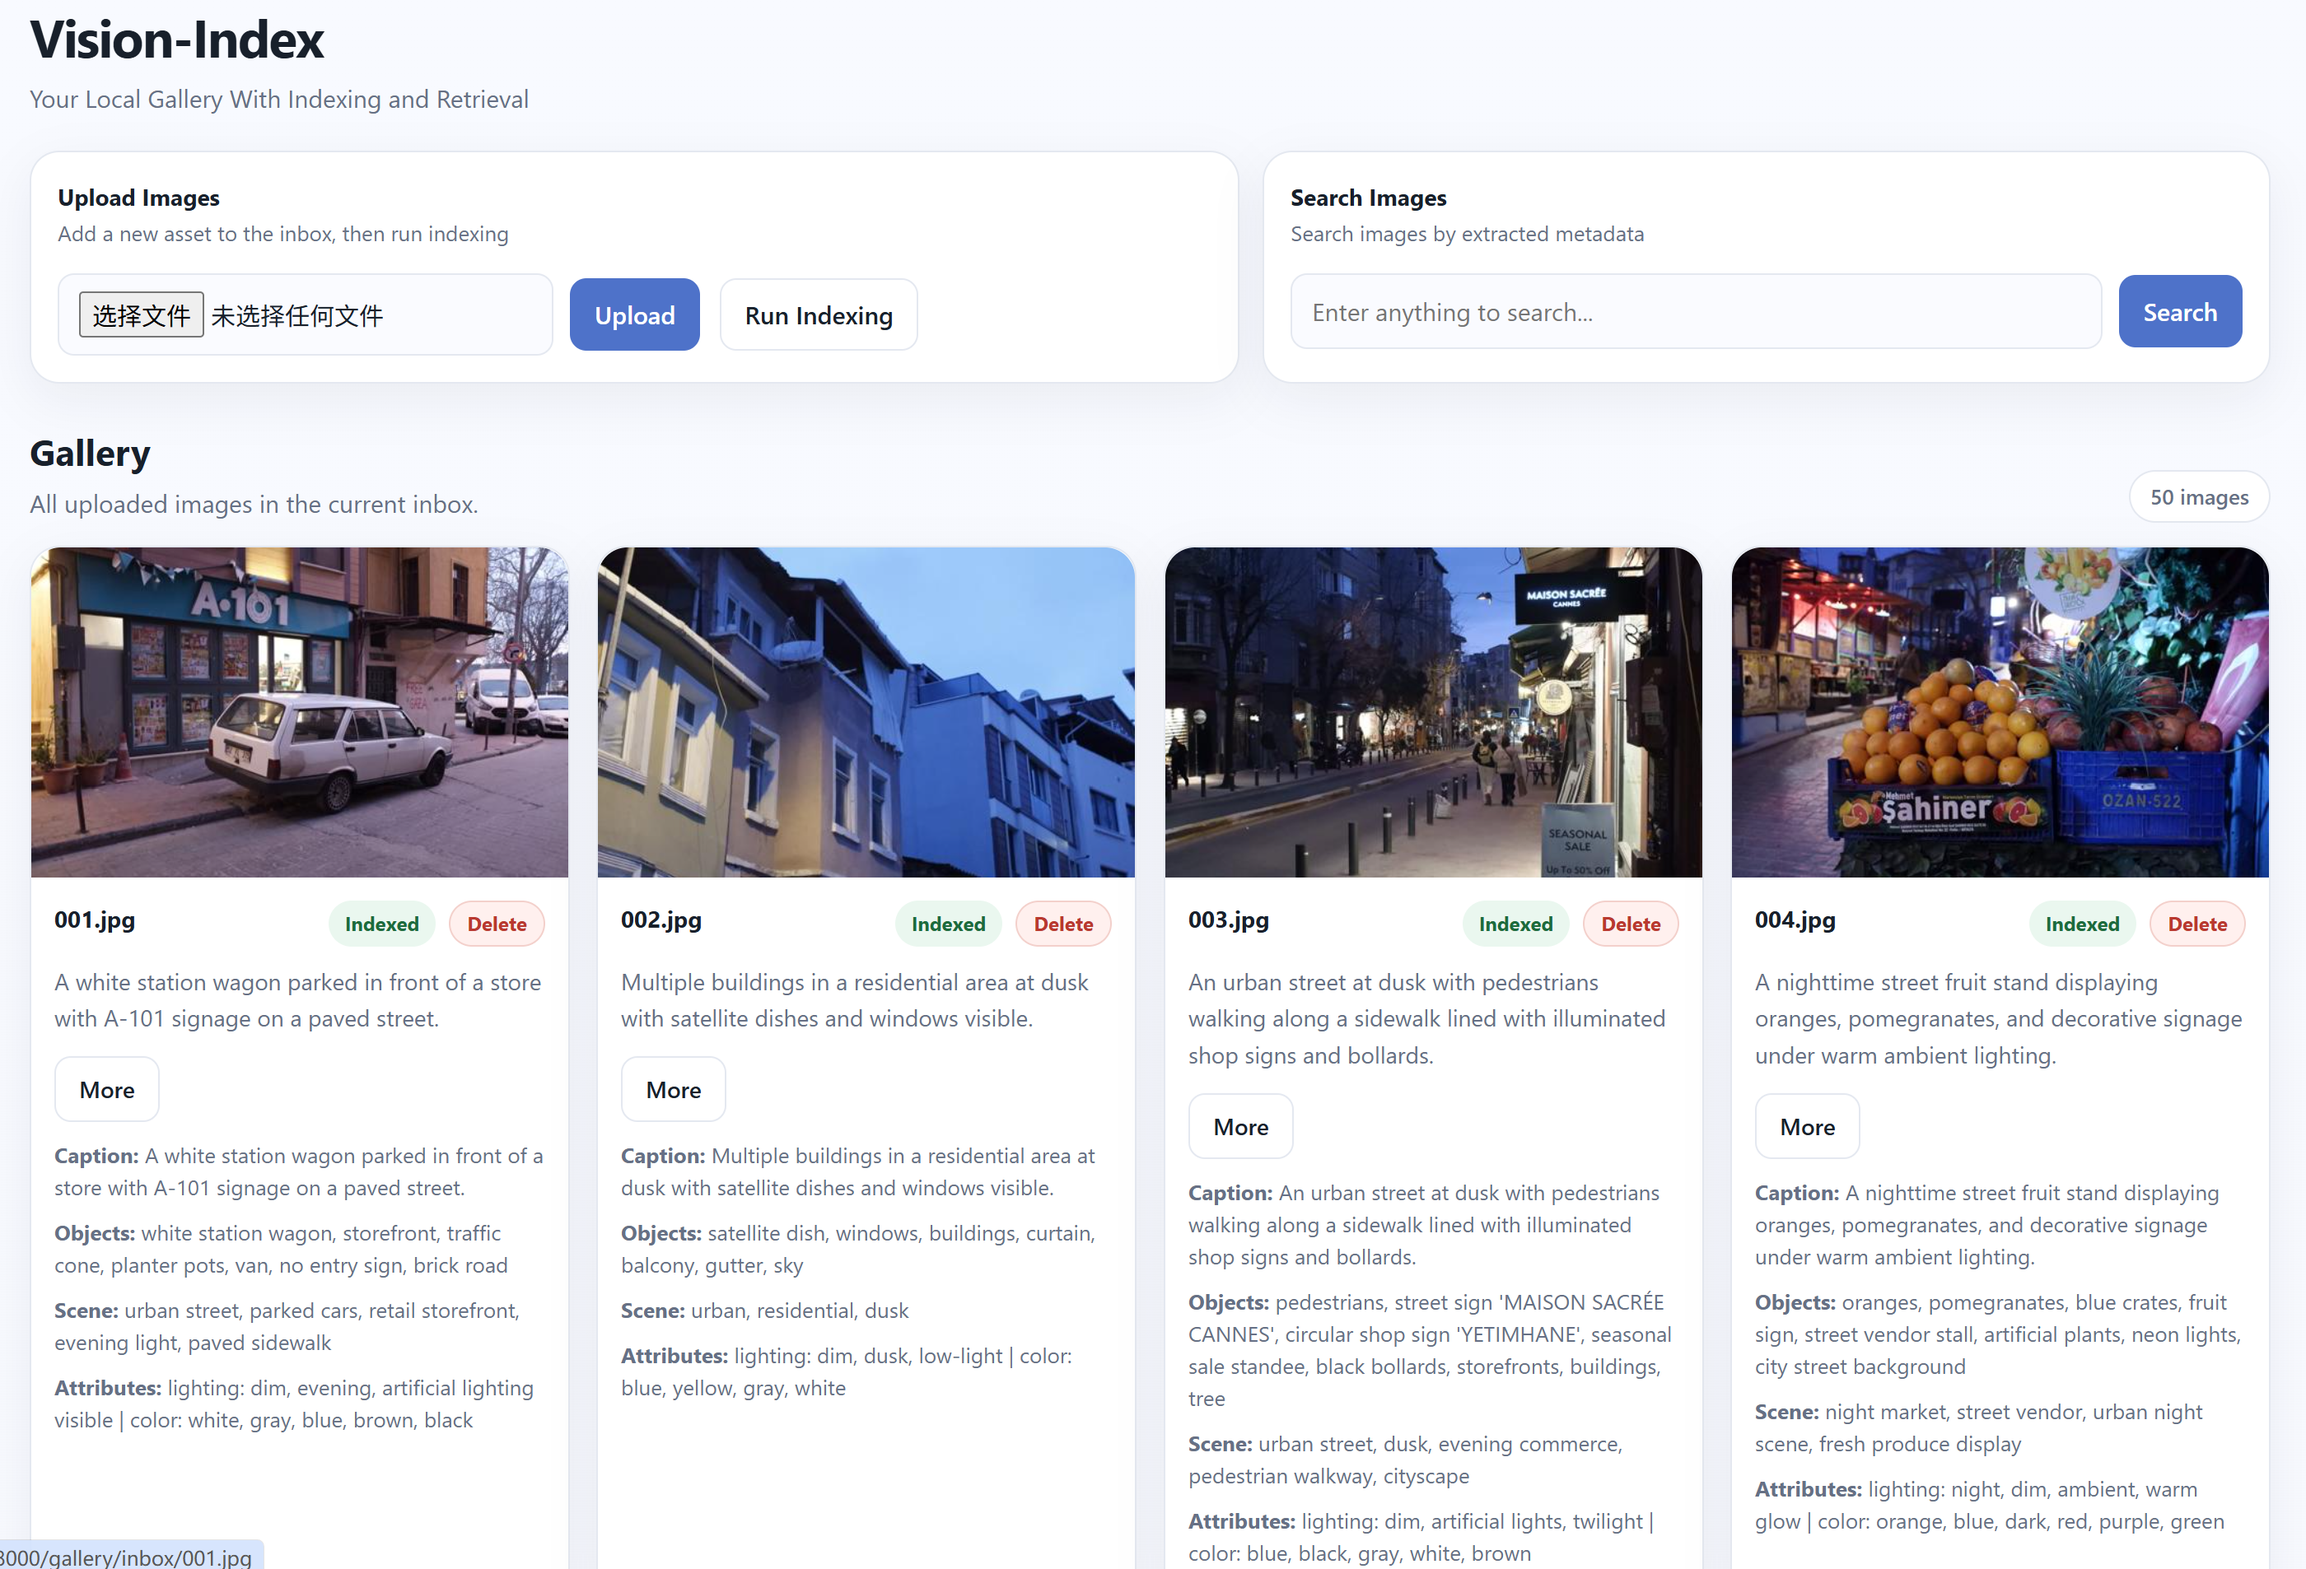
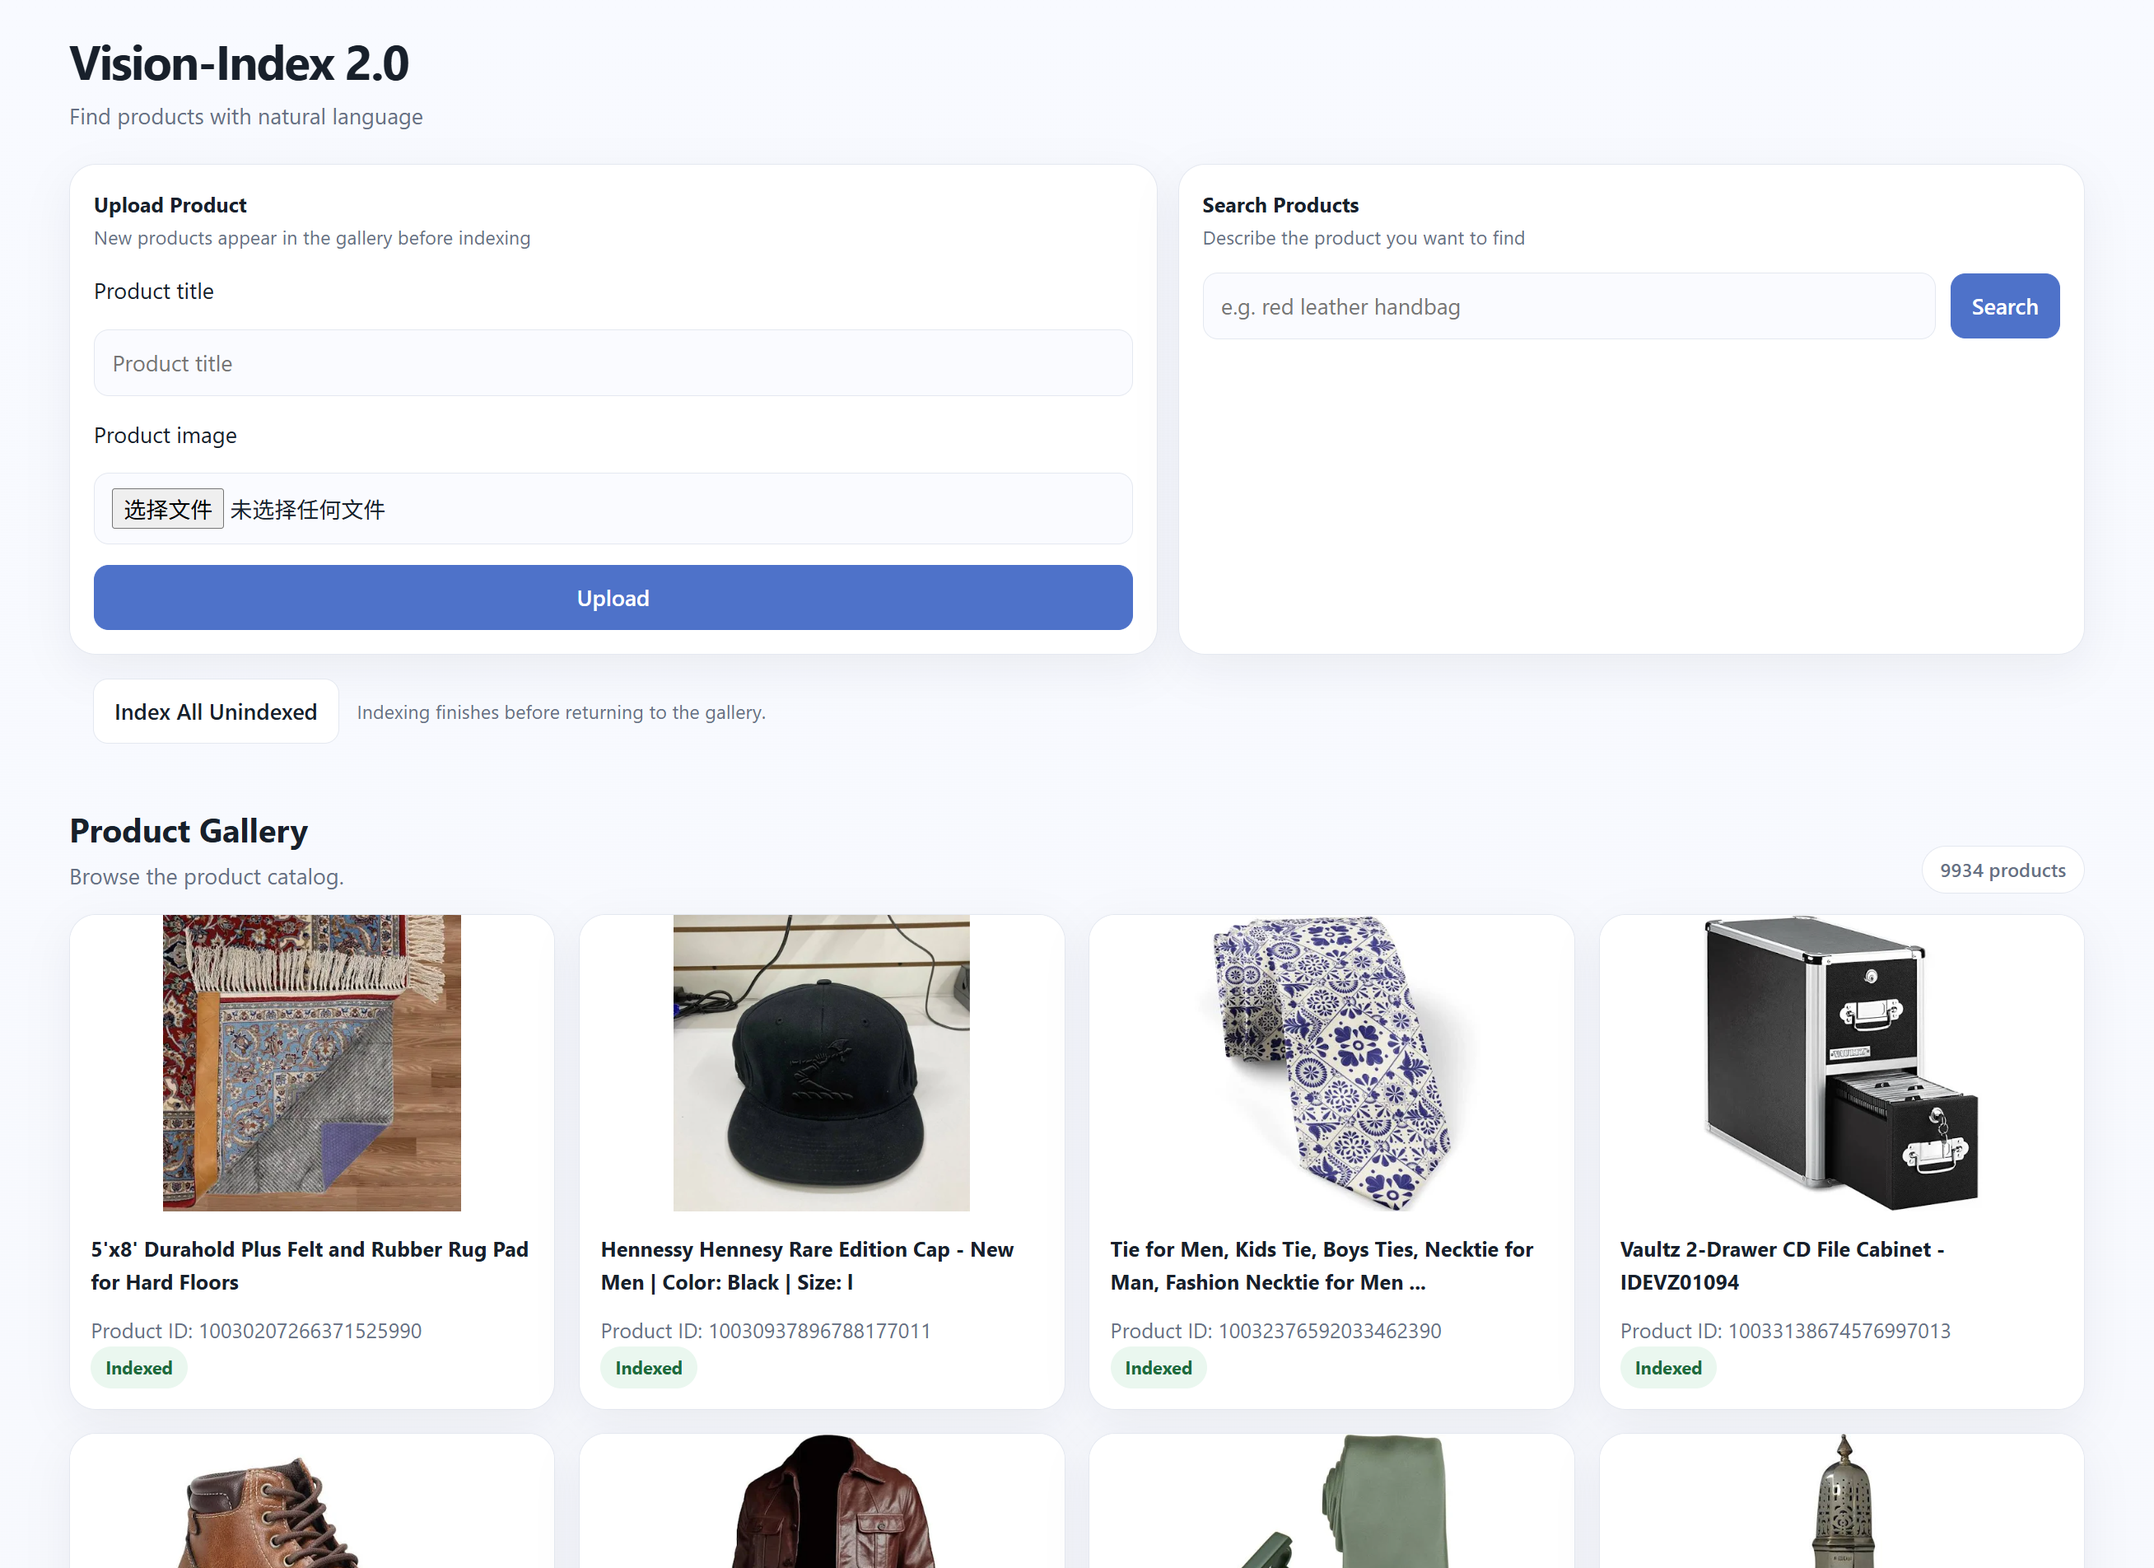
change readme

diff --git a/app_legacy/README.md b/app_legacy/README.md
@@ -20,11 +20,11 @@ It combines local VLM-based image understanding, text embeddings, vector retriev
 
 ### Upload Images, Run Indexing, and Inspect Metadata
 
-![Homepage showing the indexed image gallery](../doc/homepage.png)
+![Homepage showing the indexed image gallery](../doc/legacy_homepage.png)
 
 ### Search by Queries and Inspect Ranking Scores
 
-![Search results for crowded street](../doc/search.png)
+![Search results for crowded street](../doc/legacy_search.png)
 
 ---
 

diff --git a/README.md b/README.md
@@ -10,6 +10,17 @@ V2 uses CLIP to encode product images and search queries into a shared vector sp
 
 **Tech Stack:** Python · PyTorch · Hugging Face Transformers · FastAPI · SQLite · ChromaDB
 
+
+## Demo
+
+### Upload Images, Run Indexing
+
+![Homepage showing the gallery](doc/homepage.png)
+
+### Search by Queries and Inspect Scores
+
+![Search results](doc/search.png)
+
 ---
 
 ## Key Features
